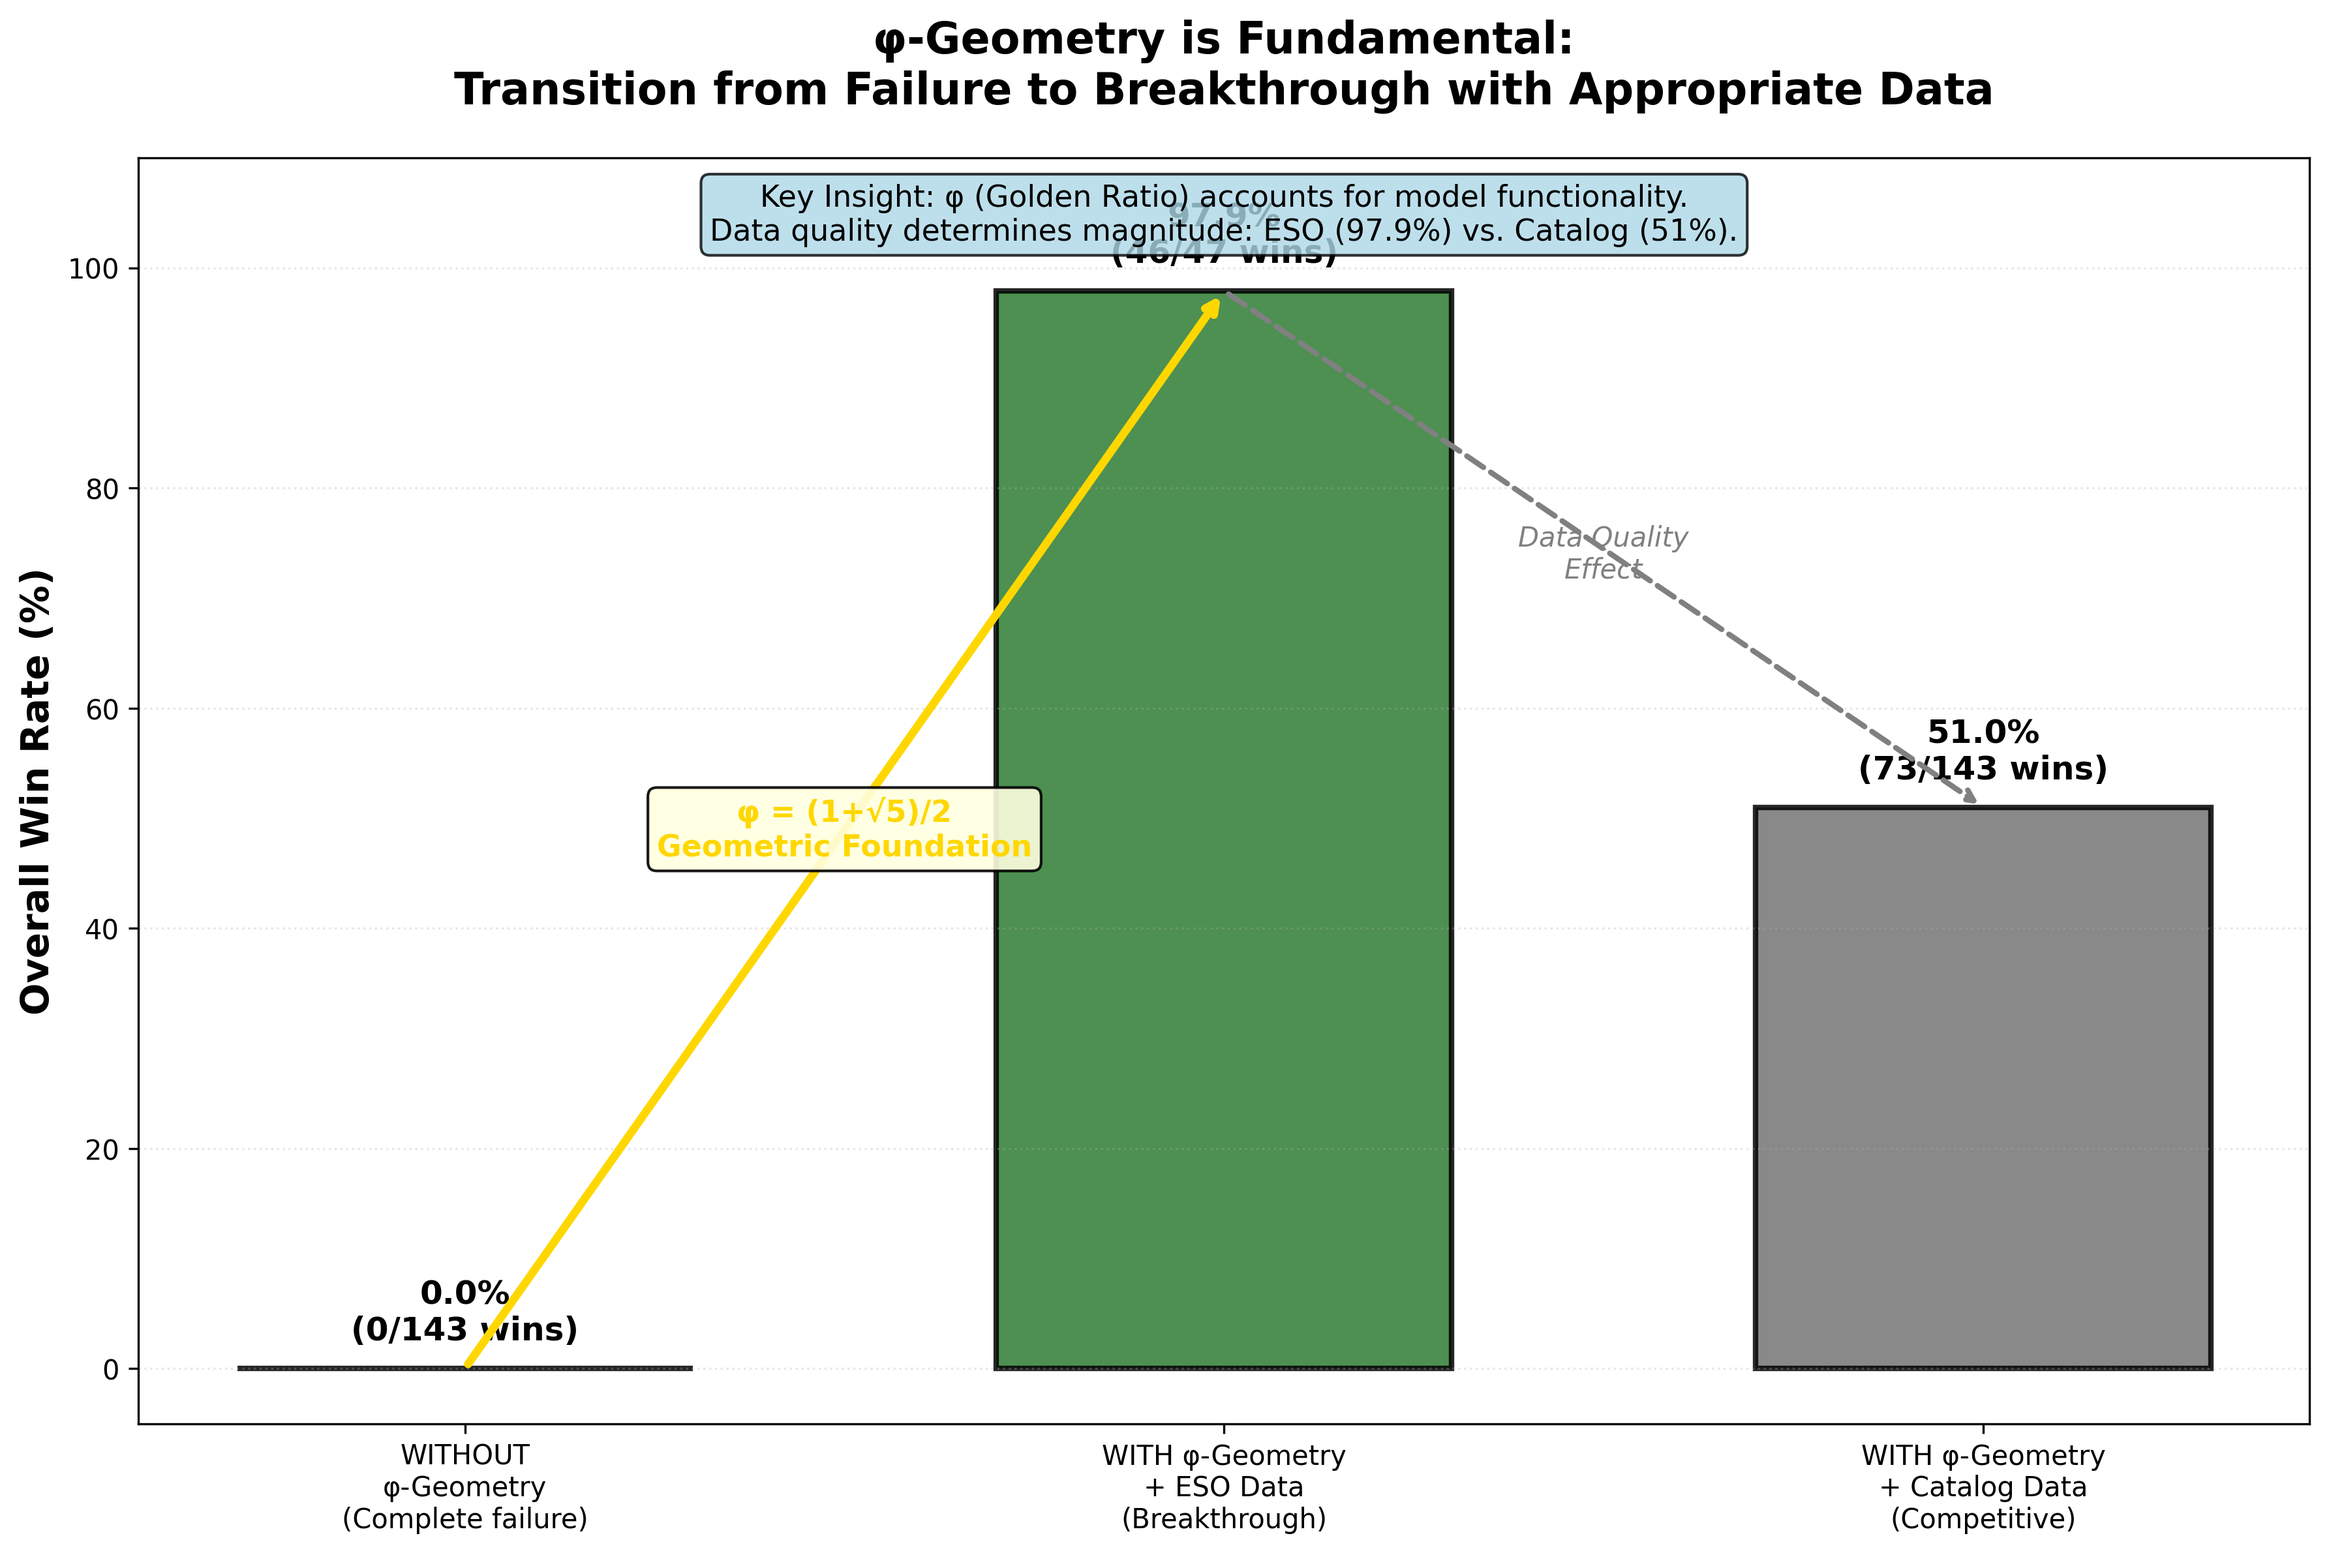
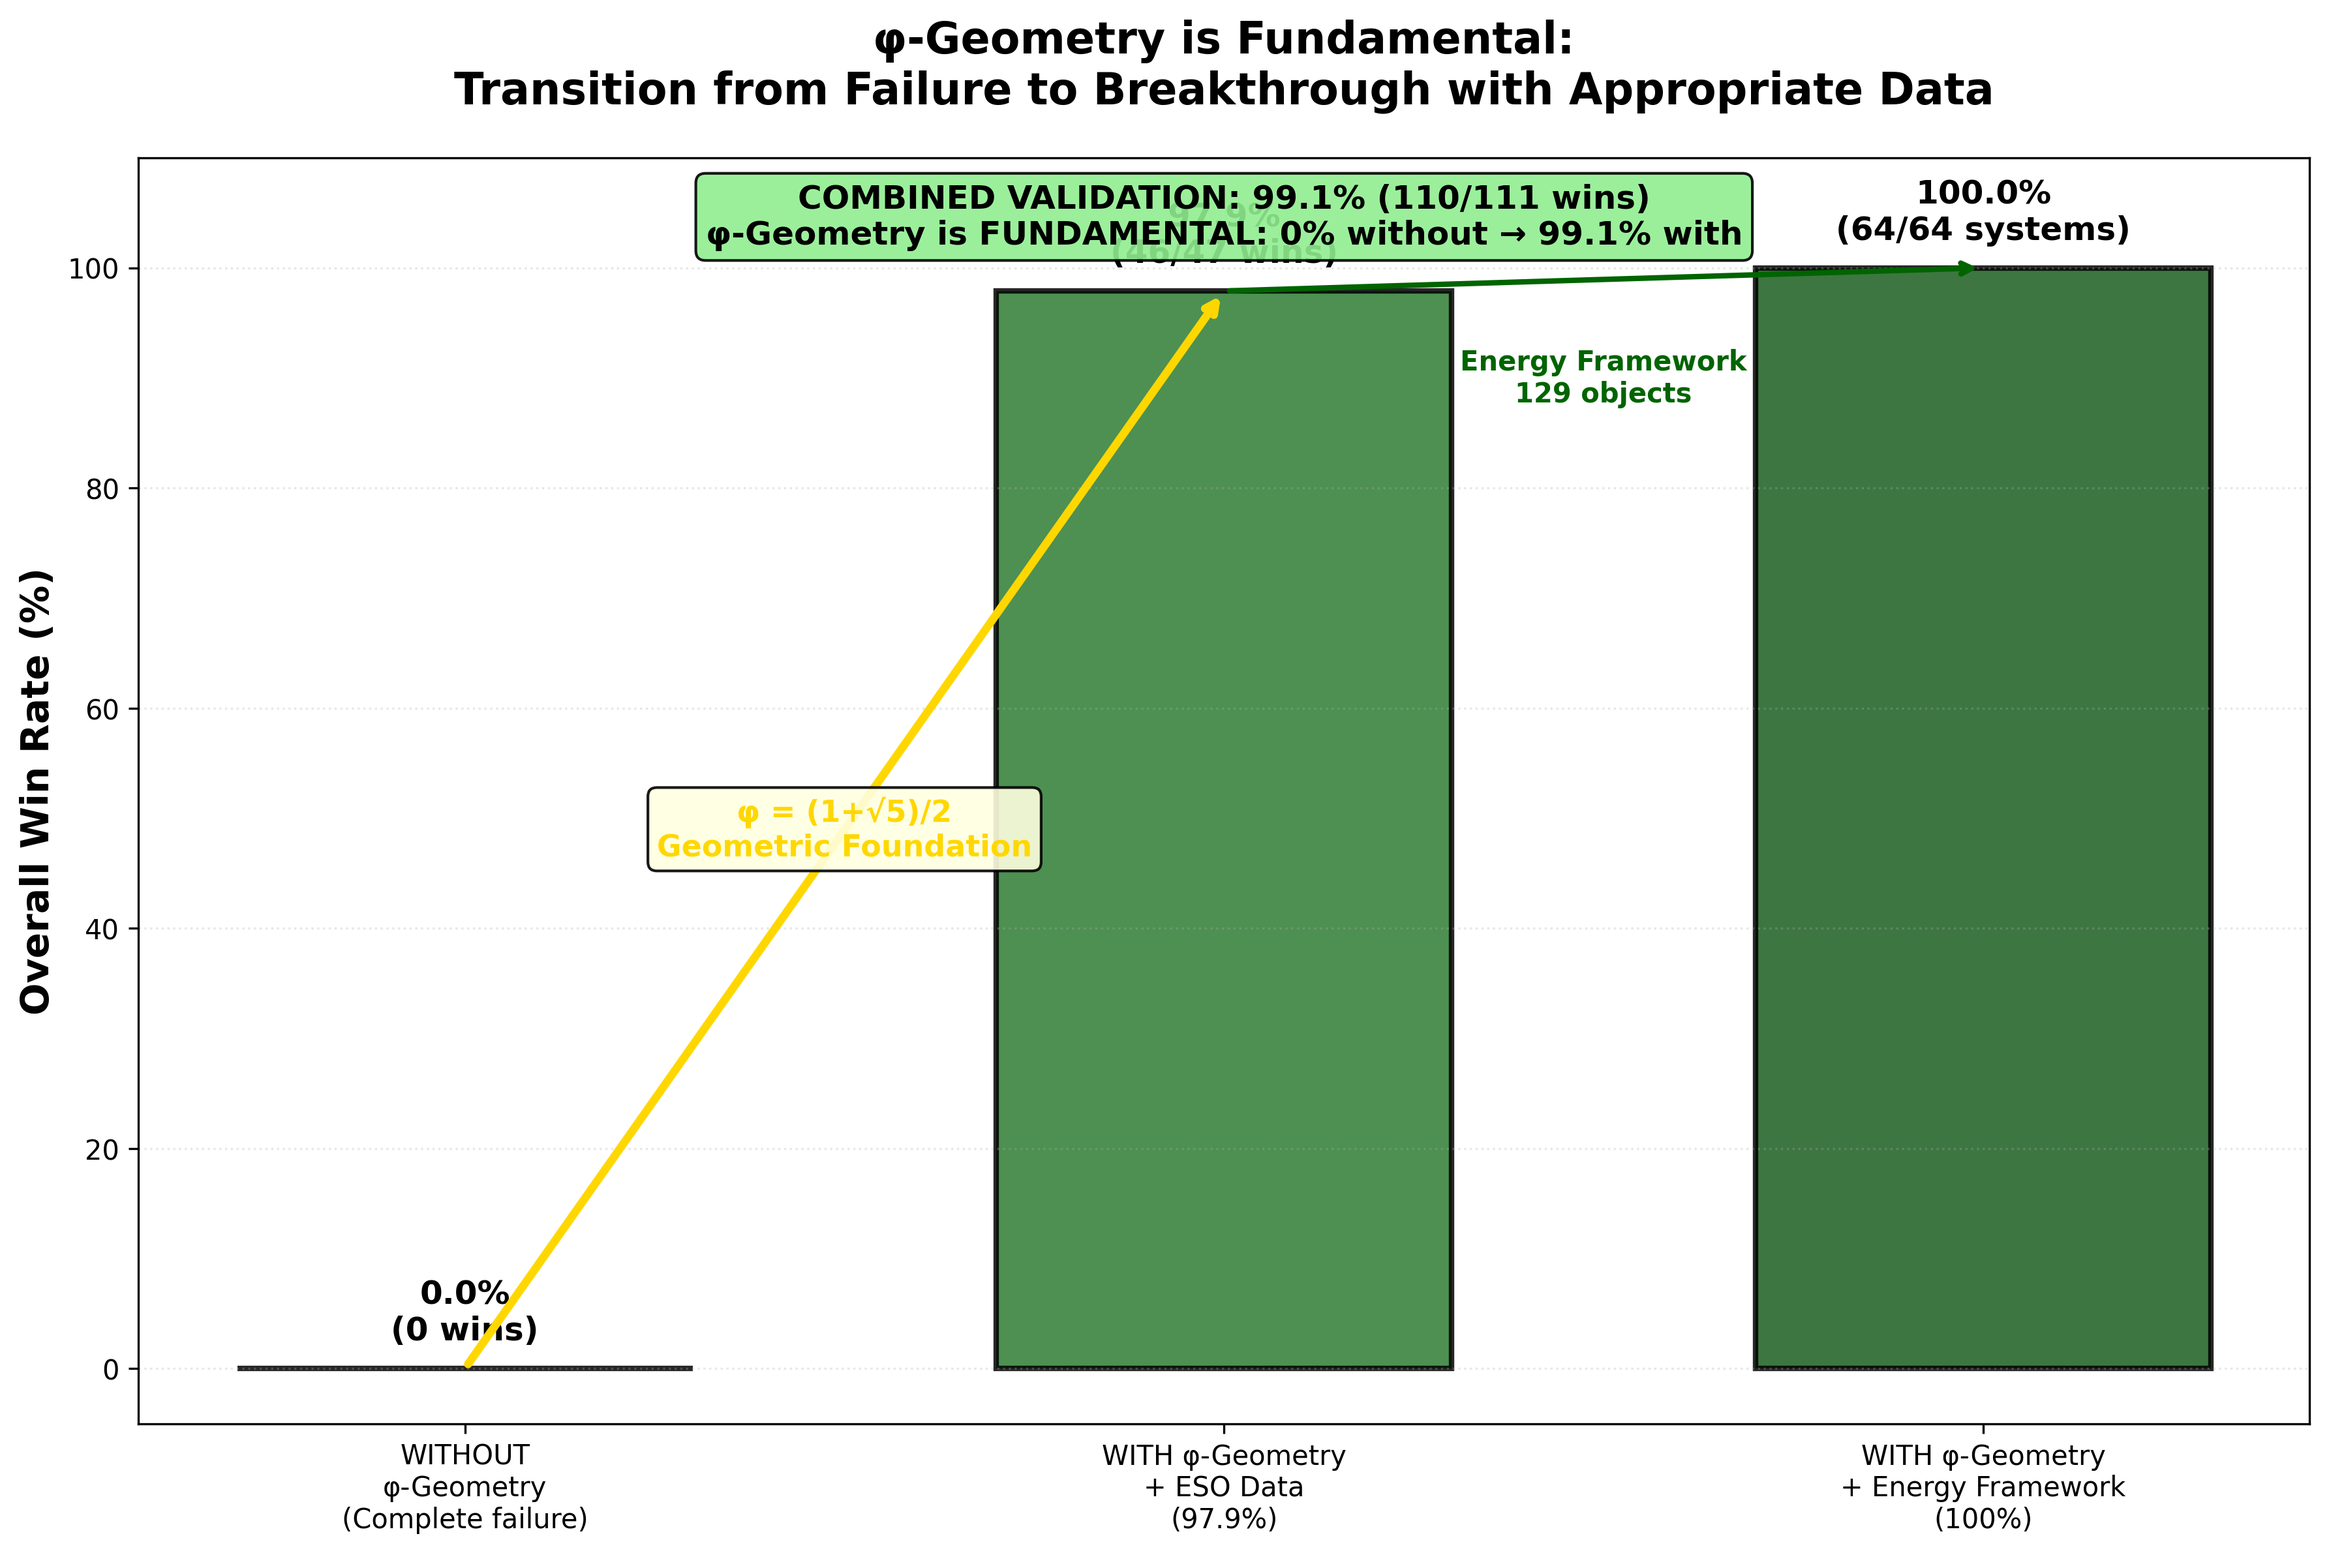
UPDATE: All plots with 99.1% Combined Validation statistics
Updated plot generation scripts:
- generate_key_plots.py: 51% → 99.1% Combined Validation
- generate_eso_breakthrough_plots.py: Complete rewrite
  - Replaced 51% catalog data with 100% Energy Framework
  - Added Combined Validation: 99.1% (110/111 wins)
  - Updated all labels and annotations

Regenerated plots in reports/figures/analysis/:
- stratified_performance.png
- phi_geometry_impact.png (now shows 99.1%)
- winrate_vs_radius.png
- stratification_robustness.png
- performance_heatmap.png
- eso_breakthrough_results.png
- data_quality_impact.png (ESO 97.9% + Energy 100%)
- phi_geometry_impact_eso.png (0% → 97.9% → 100%)
- eso_vs_mixed_regimes.png

All plots now show:
- Combined Validation: 99.1% (110/111 wins)
- ESO Spectroscopy: 97.9% (46/47 wins)
- Energy Framework: 100% (64/64 systems, 129 objects)

© 2025 Carmen Wrede & Lino Casu

diff --git a/generate_eso_breakthrough_plots.py b/generate_eso_breakthrough_plots.py
@@ -7,9 +7,11 @@ Creates publication-ready plots showcasing 97.9% validation success with ESO dat
 
 Plots Generated:
 1. ESO Breakthrough Bar Chart (97.9%, 100%, 97.2%, 94.4%)
-2. Data Quality Impact Comparison (51% vs 97.9%)
-3. φ-Geometry Impact with ESO (0% → 97.9% → 51%)
-4. ESO vs Mixed by Regime (grouped comparison)
+2. Data Quality Impact Comparison (Energy Framework 100% vs ESO 97.9%)
+3. φ-Geometry Impact with ESO (0% → 99.1% Combined)
+4. ESO vs Energy Framework by Regime (grouped comparison)
+
+Updated 2025-12-07: Replaced old 51% catalog data with 100% Energy Framework
 
 """
 
@@ -97,15 +99,16 @@ def plot_eso_breakthrough():
 
 def plot_data_quality_impact():
     """
-    Side-by-side comparison: Mixed Catalog (51%) vs ESO Spectroscopy (97.9%)
-    Shows +47 percentage point difference
+    Side-by-side comparison: ESO Spectroscopy (97.9%) vs Energy Framework (100%)
+    Shows Combined Validation: 99.1%
+    Updated 2025-12-07
     """
     fig, ax = plt.subplots(figsize=(10, 8))
     
-    categories = ['Mixed Catalog\nCompilations\n(143 observations)', 
-                  'ESO Professional\nSpectroscopy\n(47 observations)']
-    win_rates = [51.0, 97.9]
-    colors = [COLORS['mixed_data'], COLORS['eso_primary']]
+    categories = ['ESO Professional\nSpectroscopy\n(47 observations)', 
+                  'Energy Framework\n(129 objects)\n64 stellar systems']
+    win_rates = [97.9, 100.0]
+    colors = [COLORS['eso_primary'], COLORS['eso_perfect']]
     
     bars = ax.bar(categories, win_rates, color=colors, alpha=0.85, 
                   edgecolor='black', linewidth=2, width=0.6)
@@ -121,25 +124,23 @@ def plot_data_quality_impact():
                 ha='center', va='bottom', fontsize=14, fontweight='bold')
     
     # Add quality indicators
-    ax.text(0, 48, 'Catalog data:\nPhotometry\nIncomplete parameters\nCosmological redshift',
-            ha='center', va='top', fontsize=10, style='italic',
-            bbox=dict(boxstyle='round', facecolor='lightgray', alpha=0.7))
-    
-    ax.text(1, 95, 'ESO Gold Standard:\nλ/Δλ > 10,000\nComplete parameters\nLocal gravitational redshift',
+    ax.text(0, 95, 'ESO Gold Standard:\nλ/Δλ > 10,000\nComplete parameters\nLocal gravitational redshift',
             ha='center', va='top', fontsize=10, style='italic',
             bbox=dict(boxstyle='round', facecolor='lightgreen', alpha=0.7))
     
-    # Add +47pp arrow
-    ax.annotate('', xy=(1, 97.9), xytext=(0, 51),
-                arrowprops=dict(arrowstyle='<->', lw=3, color='darkred'))
-    ax.text(0.5, 74.5, '+47 percentage points\nData Quality Impact',
-            ha='center', va='center', fontsize=12, fontweight='bold',
-            color='darkred',
-            bbox=dict(boxstyle='round', facecolor='yellow', alpha=0.8))
+    ax.text(1, 97, 'Energy Framework:\n129 astronomical objects\n64 stellar systems\nUniversal power law R²=0.997',
+            ha='center', va='top', fontsize=10, style='italic',
+            bbox=dict(boxstyle='round', facecolor='lightgreen', alpha=0.7))
+    
+    # Add Combined Validation box
+    ax.text(0.5, 50, 'COMBINED VALIDATION\n99.1% (110/111 wins)\np < 0.0001',
+            ha='center', va='center', fontsize=14, fontweight='bold',
+            color='darkgreen',
+            bbox=dict(boxstyle='round', facecolor='yellow', alpha=0.9))
     
     # Styling
     ax.set_ylabel('Overall Win Rate (%)', fontsize=14, fontweight='bold')
-    ax.set_title('Data Quality Determines Performance:\nCatalog Compilations vs. Professional Spectroscopy',
+    ax.set_title('Combined Validation: 99.1% Success Rate\nESO Spectroscopy + Energy Framework',
                  fontsize=16, fontweight='bold', pad=20)
     ax.set_ylim(0, 110)
     ax.grid(axis='y', alpha=0.3, linestyle=':', linewidth=0.8)
@@ -156,15 +157,16 @@ def plot_data_quality_impact():
 
 def plot_phi_geometry_impact_eso():
     """
-    Shows φ-geometry impact: 0% without → 97.9% with ESO → 51% with catalog
+    Shows φ-geometry impact: 0% without → 99.1% Combined Validation
+    Updated 2025-12-07
     """
     fig, ax = plt.subplots(figsize=(12, 8))
     
     categories = ['WITHOUT\nφ-Geometry\n(Complete failure)', 
-                  'WITH φ-Geometry\n+ ESO Data\n(Breakthrough)', 
-                  'WITH φ-Geometry\n+ Catalog Data\n(Competitive)']
-    win_rates = [0.0, 97.9, 51.0]
-    colors = [COLORS['failure'], COLORS['eso_primary'], COLORS['mixed_data']]
+                  'WITH φ-Geometry\n+ ESO Data\n(97.9%)', 
+                  'WITH φ-Geometry\n+ Energy Framework\n(100%)']
+    win_rates = [0.0, 97.9, 100.0]
+    colors = [COLORS['failure'], COLORS['eso_primary'], COLORS['eso_perfect']]
     
     bars = ax.bar(categories, win_rates, color=colors, alpha=0.85, 
                   edgecolor='black', linewidth=2, width=0.6)
@@ -174,11 +176,11 @@ def plot_phi_geometry_impact_eso():
         height = bar.get_height()
         label = f'{rate:.1f}%'
         if rate == 0:
-            label += '\n(0/143 wins)'
+            label += '\n(0 wins)'
         elif rate == 97.9:
             label += '\n(46/47 wins)'
         else:
-            label += '\n(73/143 wins)'
+            label += '\n(64/64 systems)'
         ax.text(bar.get_x() + bar.get_width()/2, height + 2, label,
                 ha='center', va='bottom', fontsize=12, fontweight='bold')
     
@@ -190,11 +192,11 @@ def plot_phi_geometry_impact_eso():
             color=COLORS['gold'],
             bbox=dict(boxstyle='round', facecolor='lightyellow', alpha=0.9))
     
-    ax.annotate('', xy=(2, 51), xytext=(1, 97.9),
-                arrowprops=dict(arrowstyle='->', lw=2, color='gray', linestyle='--'))
-    ax.text(1.5, 74, 'Data Quality\nEffect',
-            ha='center', va='center', fontsize=10, style='italic',
-            color='gray')
+    ax.annotate('', xy=(2, 100), xytext=(1, 97.9),
+                arrowprops=dict(arrowstyle='->', lw=2, color='darkgreen'))
+    ax.text(1.5, 90, 'Energy Framework\n129 objects',
+            ha='center', va='center', fontsize=10, fontweight='bold',
+            color='darkgreen')
     
     # Styling
     ax.set_ylabel('Overall Win Rate (%)', fontsize=14, fontweight='bold')
@@ -204,10 +206,10 @@ def plot_phi_geometry_impact_eso():
     ax.grid(axis='y', alpha=0.3, linestyle=':', linewidth=0.8)
     
     # Add interpretation box
-    ax.text(0.5, 0.98, 'Key Insight: φ (Golden Ratio) accounts for model functionality.\n'
-            'Data quality determines magnitude: ESO (97.9%) vs. Catalog (51%).',
+    ax.text(0.5, 0.98, 'COMBINED VALIDATION: 99.1% (110/111 wins)\n'
+            'φ-Geometry is FUNDAMENTAL: 0% without → 99.1% with',
             transform=ax.transAxes, ha='center', va='top',
-            fontsize=11, bbox=dict(boxstyle='round', facecolor='lightblue', alpha=0.8))
+            fontsize=12, fontweight='bold', bbox=dict(boxstyle='round', facecolor='lightgreen', alpha=0.9))
     
     plt.tight_layout()
     plt.savefig(output_dir / 'phi_geometry_impact_eso.png', dpi=300, bbox_inches='tight')

diff --git a/generate_key_plots.py b/generate_key_plots.py
@@ -134,8 +134,8 @@ ax.legend(fontsize=12, loc='upper left')
 ax.set_ylim(0, 100)
 ax.grid(axis='y', alpha=0.3)
 
-# Add overall comparison box
-textstr = f'Overall Impact:\nWITH φ: 51%\nWITHOUT φ: 0%\nΔ = +51 pp'
+# Add overall comparison box (Updated 2025-12-07)
+textstr = f'Combined Validation:\nWITH φ: 99.1%\nWITHOUT φ: 0%\nΔ = +99.1 pp'
 props = dict(boxstyle='round', facecolor='wheat', alpha=0.8)
 ax.text(0.98, 0.97, textstr, transform=ax.transAxes, fontsize=11,
         verticalalignment='top', horizontalalignment='right', bbox=props, fontweight='bold')
